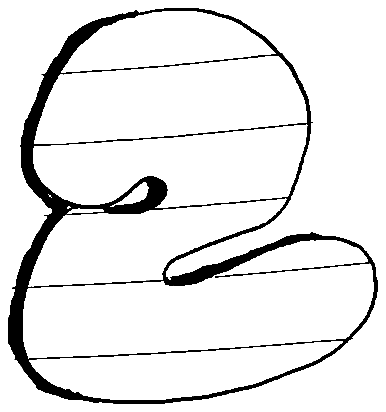
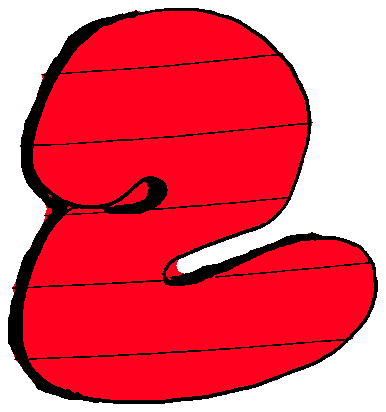
CART drawing with red hand-drawn count instead of the cart box
- Header cart is now the CART drawing with the item count beside it;
  only CART gets the selected-state underline.
- Digits filled with the logo's heart red (#ff001e); small gaps in the
  scanned outlines closed first so every digit fills fully.
- Phones: CART + count sit on a second row under SHOP/ABOUT so the
  logo keeps its full width. Desktop keeps cart in the top-right.

diff --git a/src/styles/global.css b/src/styles/global.css
@@ -48,11 +48,13 @@ body {
   overflow: hidden;
 }
 
+/* Phones: logo on the left; shop/about on the top row and cart below it, on the right. */
 .topbar {
-  display: flex;
-  justify-content: space-between;
-  align-items: flex-start;
-  gap: 4px;
+  display: grid;
+  grid-template-columns: minmax(0, 1fr) auto;
+  align-items: start;
+  column-gap: 4px;
+  row-gap: 2px;
   min-height: 0;
   padding: max(6px, env(safe-area-inset-top)) 2% 10px;
   position: relative;
@@ -60,9 +62,9 @@ body {
   view-transition-name: topbar;
 }
 
-/* Logo fills the left half of the header. */
 .brand {
-  flex: 1;
+  grid-column: 1;
+  grid-row: 1 / span 2;
   min-width: 0;
   height: 100%;
   display: flex;
@@ -77,15 +79,13 @@ body {
   object-position: left center;
 }
 
-/* Tabs sit in the upper right. */
 .tabs {
+  grid-column: 2;
+  grid-row: 1;
+  justify-self: end;
   display: flex;
   align-items: center;
   gap: 8px;
-}
-
-.cart-tab {
-  margin-left: 8px;
 }
 
 .tab {
@@ -95,26 +95,24 @@ body {
   text-decoration: none;
 }
 
+/* CART drawing with the item count beside it (the underline goes under CART only). */
 .cart-tab {
-  display: grid;
-}
-
-.cart-tab > * {
-  grid-area: 1 / 1;
-}
-
-.cart-tab {
-  /* Height of the cart drawing; the box is its top 80% (the rest is room for the underline). */
-  --cart-h: 38px;
+  grid-column: 2;
+  grid-row: 2;
+  justify-self: end;
+  display: flex;
+  align-items: flex-start;
+  gap: 4px;
+  /* Height of the CART drawing; the word is its top 80% (the rest is room for the underline). */
+  --cart-h: 36px;
 }
 
 .cart-count {
-  place-self: start center;
   margin-top: calc(var(--cart-h) * 0.4 - var(--digit-h) / 2);
   font-size: 15px;
   line-height: 1;
   color: var(--ink);
-  --digit-h: 19px;
+  --digit-h: 26px;
 }
 
 /* Numbers written with the hand-drawn digits (see scripts/digits.ts). */
@@ -128,10 +126,6 @@ body {
   display: block;
   height: var(--digit-h, 1.4em);
   width: auto;
-}
-
-[aria-current='page'] .cart-count {
-  color: var(--red);
 }
 
 main {
@@ -298,7 +292,6 @@ a:active img.drawn,
   .brand {
     grid-column: 2;
     grid-row: 1;
-    flex: none;
   }
 
   .brand img.drawn {
@@ -318,11 +311,11 @@ a:active img.drawn,
   }
 
   .cart-count {
-    --digit-h: 32px;
+    --digit-h: 46px;
   }
 
   .cart-tab {
-    --cart-h: 64px;
+    --cart-h: 66px;
   }
 
   .tabs {

diff --git a/README.md b/README.md
@@ -34,9 +34,8 @@ Things with an `-on` version need two drawings: normal, and selected (circled, f
 | What | Files | Notes |
 |---|---|---|
 | Logo | `logo` ✓ done | upper left of the header (also used for the app icon) |
-| Digits | `digit-0` … `digit-9` ✓ done | cart count + quantities |
-| Tabs | `tab-shop` ✓ done, `tab-about` ✓ done | upper right of the header |
-| Cart box | `cart-box` + `cart-box-on` | an empty square; the item count is typed inside it |
+| Digits | `digit-0` … `digit-9` ✓ done | cart count + quantities, filled with the heart red |
+| Tabs | `tab-shop`, `tab-about`, `tab-cart` ✓ done | selected one gets the drawn underline (`-on` files are generated) |
 | Shop filters | `filter-all` ✓ done. To add a category filter, list it in `CATEGORIES` in `src/data/products.ts` and draw `filter-<name>` + `-on` | |
 | Sizes | `size-s`, `size-m`, `size-l`, `size-xl` + `-on` versions | roughly square |
 | Sold out | `scribble-out` | drawn over sold-out sizes |
